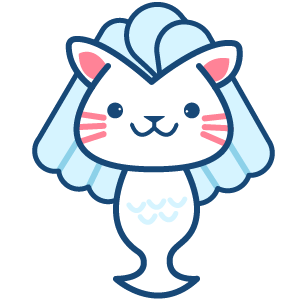
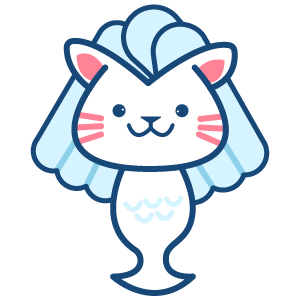
Merlion with hover

Changed region(s): [[0.09, 0.0, 0.93, 1.0]]

diff --git a/src/components/common/MerlionMascot.vue b/src/components/common/MerlionMascot.vue
@@ -1,92 +1,99 @@
 <template>
-    <div class="mask" ref="merlion">
-        <img id ="anchor"  src="../../assets/img/merlion/merlionBaseWEye.png"  />
+    
+    <div class="mask" @mouseover="hover = true" @mouseleave="hover = false" >
+        <img class="merlionHand"   src="../../assets/img/merlion/merlionHand.png" ref="merlion"  />
+        <img v-if="!hover" class="merlionBody"   src="../../assets/img/merlion/merlionBaseWEye.png" ref="merlion"  />
+        <img v-else class="merlionBody" src="../../assets/img/merlion/merlionBaseWink.png" ref="merlion"   />
     </div>
-
-    <!-- <div id="eyes" @mouseenter="mouseEnter" @mousemove="mousemove">
-        <img class="mascot" src="../../assets/img/merlion/merlionEye.png" :style='leftEyeStyle'/>
-        <img class="mascot" src="../../assets/img/merlion/merlionEye.png" :style='rightEyeStyle'/> 
-    </div> -->
-    <!-- <img class="mascot" src="../../assets/img/merlion/merlionHand.png"/> -->
 
 </template>
   
 <script>
 import { useMouseDistanceFromElement } from "vue-composable";
 
-  export default {
-    name: "MerlionMascot",
-    props: {
-        positionX: String,
-        positionY: String,
-    },
-    data() {
-      return {
-          mouseX : null,
-          mouseY : null,
-          anchorX: 0,
-          anchorY: 0,
-          eyeRotation: null,
-  
-      };
-    },
-    methods : {
-        calculateDistance(mouseX, mouseY) {
-            //element.getBoundingClientRect().left
-            return Math.floor(Math.sqrt(Math.pow(mouseX - this.left, 2) + Math.pow(mouseY - this.top, 2)));      
-         },
-        mouseMove(event) {
 
-            // this.getAngle(event.clientX, event.clientY, this.anchorX, this.anchorY)
-            this.mouseX = event.clientX;
-            this.mouseY = event.clientY;
-            // console.log(this.$refs.merlion);
-            // console.log(this.mouseX, this.mouseY);
-            // console.log(element)
 
-            // console.log(this.calculateDistance(this.mouseX, this.mouseY))
-            
-        },
-
-    },
-    computed : {
-        leftEyeStyle(){
-            return `transform:rotate(${90 + this.eyeRotation}deg);top: -198px;left: 107px`
-        },
-        rightEyeStyle(){
-            return `transform:rotate(${90 + this.eyeRotation}deg);top: 463px;left: 183px;`
-        },
-        merlionStyle(){
-            return `position:absolute;bottom:${this.positionY}px;left:${this.positionX}`
-        },
-        left(){
-            return this.$refs.merlion.getBoundingClientRect().x;
-        },
-        top(){
-            return this.$refs.merlion.getBoundingClientRect().y;
-
-        }
-
+export default {
+name: "MerlionMascot",
+props: {
+    positionX: String,
+    positionY: String,
+},
+data() {
+    return {
+        mouseX : null,
+        mouseY : null,
+        anchorX: 0,
+        anchorY: 0,
+        eyeRotation: null,
+        hover:false,
         
 
-    },
-    mounted(){  
-        
-        window.addEventListener('mousemove', this.mouseMove);
-        const anchor = document.getElementById("anchor");
-        const rekt = anchor.getBoundingClientRect();
-        const anchorX = rekt.left + rekt.width / 2;
-        const anchorY = rekt.top + rekt.height / 2;
 
-        //Trying get X and Y of merlion...
-        console.log("Please fucking work")
-        console.log(this.$refs.merlion)
-        console.log(this.$refs.merlion.getBoundingClientRect().left);
-        console.log(this.$refs.merlion.getBoundingClientRect().top);
+    };
+},
+methods : {
+    calculateDistance(mouseX, mouseY) {
+        //element.getBoundingClientRect().left
+        return Math.floor(Math.sqrt(Math.pow(mouseX - this.left, 2) + Math.pow(mouseY - this.top, 2)));      
+        },
+    mouseMove(event) {
+
+        // this.getAngle(event.clientX, event.clientY, this.anchorX, this.anchorY)
+        this.mouseX = event.clientX;
+        this.mouseY = event.clientY;
+        // let {distance} = useMouseDistanceFromElement(this.$refs.merlion)
+
+        // console.log(distance.value)
+        // console.log(this.$refs.merlion);
+        // console.log(this.mouseX, this.mouseY);
+        // console.log(element)
+
+        // console.log(this.calculateDistance(this.mouseX, this.mouseY))
+        
+    },
+    hoverMerlion(){
+        console.log("Fuck u");
+        this.hover = !this.hover
     }
-  };
+
+},
+computed : {
+    leftEyeStyle(){
+        return `transform:rotate(${90 + this.eyeRotation}deg);top: -198px;left: 107px`
+    },
+    rightEyeStyle(){
+        return `transform:rotate(${90 + this.eyeRotation}deg);top: 463px;left: 183px;`
+    },
+    merlionStyle(){
+        return `position:absolute;bottom:${this.positionY}px;left:${this.positionX}`
+    },
+    left(){
+        return this.$refs.merlion.getBoundingClientRect().x;
+    },
+    top(){
+        return this.$refs.merlion.getBoundingClientRect().y;
+
+    },
+    mouseDistance(){
+        
+        return this.distance;
+    }
+
+    
+
+},
+mounted(){  
+    const {distance} = useMouseDistanceFromElement();
+    console.log(`Distance here is ${distance.value}`)
+    const {distance2} = useMouseDistanceFromElement(this.$refs.merlion);
+    console.log(`Distance here is ${distance.value}`)
+    console.log(this.$refs.merlion)
+
+}
+}
 </script>
-  
+
 <style lang="scss">
 
 
@@ -96,10 +103,32 @@ import { useMouseDistanceFromElement } from "vue-composable";
     height:250px;
     width:250px;
     position: fixed;
+    overflow: hidden;
+}
 
+.merlionBody{
+    animation: merlionDuck 0.5s ease 2 alternate;
+    position: absolute;
+    top:85px;
+    left: -25px;
+}
+
+.merlionHand{
+    position: absolute;
+    z-index: 1;
+    top:85px;
+    left:-25px;
 }
 
 
+@keyframes merlionDuck{
+    0%{
+        top: 85px;
+    }
+    100%{
+        top:95px;
+    }
+}
+
 
 </style>
-  
